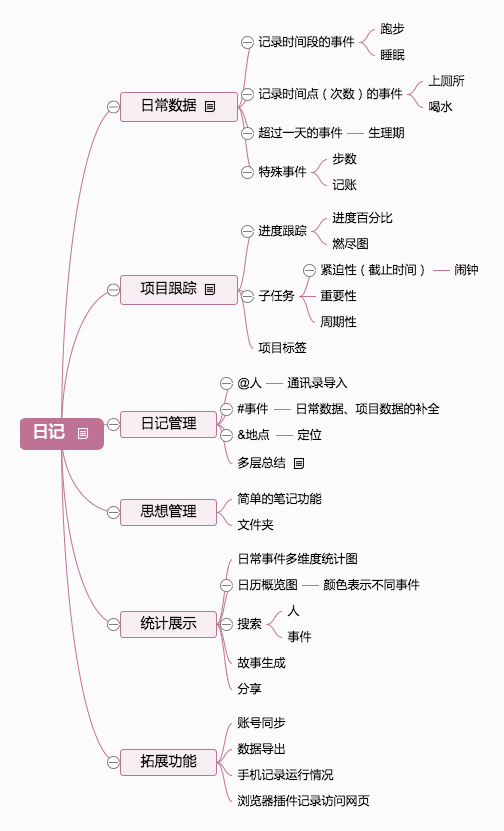
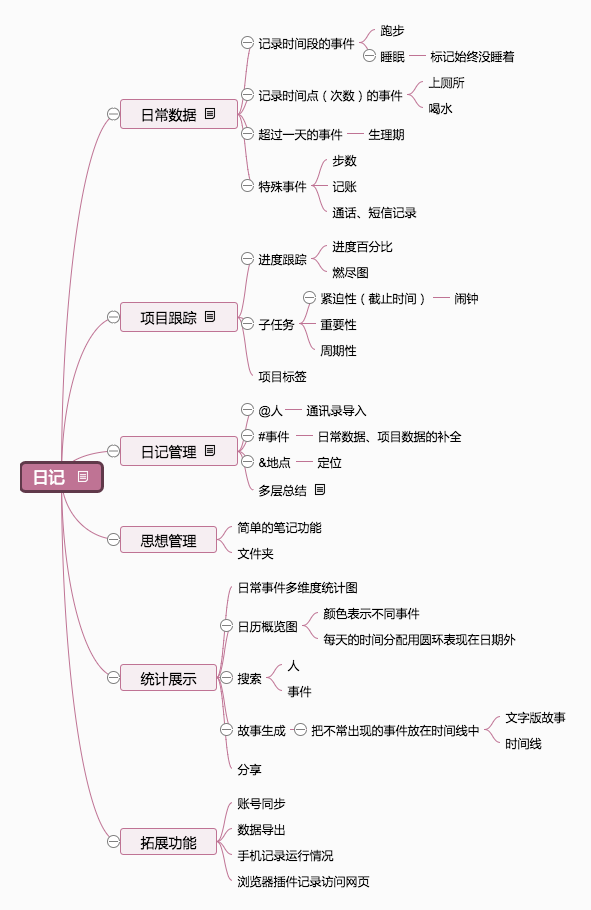
what to create

Changed region(s): [[0.0298, 0.0301, 0.9524, 0.9928], [0.8333, 0.0903, 0.9226, 0.1504], [0.8929, 0.3008, 0.9524, 0.3309]]

diff --git a/README.md b/README.md
@@ -1,72 +1,63 @@
 # 不日记
 
-高效、全面记录分析你的日常行为数据
-
-关键词：量化生活（Quantified Self）
+量化记录、分析我的生活
 
 
 
-## 需求分析
-
-### 现存问题
-
-1. 日常数据统计
-    - 各种记录日常行为数据的软件功能单一，没有能记录所有信息的平台。导致：
-        - 用户需要安装各种统计软件
-        - 无法提供数据间相关性统计
-    - 记录的流程太麻烦。导致：
-        - 用户懒得记录
-        - 容易忘记记录
-    - 数据分析过于单一，没有提供足够的展示信息。导致：
-        - 记了也是白记
-2. 日记
-    - 纸质记录的日记
-        - （致命）查找事件或人过于艰难
-        - 日记本不带在身边就没法记
-        - 不安全！（做成应用至少可以靠手机锁屏密码）
-    - 现有应用
-        - （致命）手机打字麻烦
-        - 正确匹配搜索困难（不记得当时用了什么词就歇菜，甚至人名用了昵称……）
-        - 无目的性地回顾浏览麻烦（有时候你并不想具体地搜具体的人或事，只是想看看过去的一年我都做了什么。这一点大家可能会忽略，但表现也很清楚，就是写的日记很少会去看。）
-
-### 解决方案
-
-1. （杀手锏）在一个应用中集成所有日常数据的统计
-2. 拍平记录入口，简化记录流程
-3. 化整为零降低记录成本
-4. 游戏化（gamification）元素提高记录动力
-5. 基于时间位置等信息智能提醒记录
-6. （重要）深度分析数据关联
-7. （重要）可视化直观展示统计信息
-8. 把事件作为日记时间线
-9. （重要）日记中可以 @人，#事件，&地点（日记还是只有自己可见的，人可以是通讯录等其他途径获得的）
-10. （杀手锏）阶段性总结日记（每周根据 7 天日记写一句话周记，每个月根据 4 句周记写一句话月记……还没意识到这是多么酷炫的想法？！这是 LOD（Level of Detail，根据观察距离选择合适颗粒度的信息展现）好么！！！）
-
-根据行为心理学的观点，习惯养成的三要素是：降低行为成本（把大任务拆分成小任务）；增加锚点（养成做一件肯定不会忘的事就会想到去做要养成的习惯这件事的条件反射）；提供积极反馈（即使只是在心里说一句“我好棒！”）。
-
-所以，相应地，我希望把“记录一天的生活”这样庞大的工作量化整为零拆分在每一件事件发生的时候，而记录最常用的操作只是在首屏（甚至以后考虑在安卓平台做成桌面组件）点一下这样成本很低的操作；至于锚点，我现在用各种统计软件已经形成了条件性的锚点，即使记性不好如我，也很少忘记，如果忘记，我还希望能够通过时间位置信息等进行智能提醒；对于我这样对数据有执念的人，统计数据本身对我就是最好的奖励，但是额外地，可以把记录数据这件事本身作为一种数据进行统计，引入一些指标做游戏化设计，更好地激励自己记下来。
-
-对于写日记，我希望把已有的事件记录融入时间线，这样就不需要用户过多的输入，有了 @人，#事件，&地点 这样的自动化补全手段，可能需要用户手动输入的主要就剩事件带来的感想了。日记这一块想得还不够细致，以后再补充。
-
-### 目标用户
-
-像我一样对记录、掌握自身数据有执念的人。
-
-虽然我力图降低记录的成本，但是再怎么降，坚持记录这件事是必不可免的，所以如果不是对自己的数据有非常强烈的了解意图的人，可能是非常难坚持的。所以本应用针对的目标用户门槛比较高。
-
-事实上，我做这个应用主要是为了解决我自己记录数据的需求。我当然明白，上面列的这些意味着多少工作量……但是，我已经到了不能容忍我的数据到处散布，记了又不给我深度分析的各种统计软件了。
-
-（欢迎感兴趣的同学到 #1 讨论产品需求，但是请先一定确定你理解了这个目标用户范围。）
-
-
+## [需求分析](requirement_analysis.md)
 
 ## [竞品分析](competitive_analysis.md)
 
 
 
-## 功能清单
+## 功能
 
-（这是我粗略想的长远计划，还待细化修改）
+### 新建
+
+#### 日常
+
+日常活动是几乎每天都会做的事，如喝水、阅读、上网、编程等。分为“短时活动”和“长时活动”，对前者我们不关心其持续时间，可以认为是瞬时活动（如喝水）；对于后者，我们会记录开始和结束时间（如阅读、上网、编程）。
+
+需要填写的共同参数包括：
+
+- 名称
+- 标签
+
+##### 短时活动
+
+- 目标每日次数
+
+##### 长时活动
+
+- 目标时间长度
+
+#### 项目
+
+项目是一系列相关待办事项的组合。
+
+需要填写的共同参数包括：
+
+- 名称
+- 进度
+- 标签
+
+#### 待办
+
+待办事项可以属于一个项目，或者没有相关联的项目。
+
+需要填写的共同参数包括：
+
+- 名称
+- 截止日期
+- 重复
+- 提醒
+- 进度
+- 估计耗时
+
+
+
+
+## 功能清单
 
 ![功能清单](https://github.com/Ovilia/buriji/raw/master/design/requirements/功能清单.png)
 

diff --git a/requirement_analysis.md b/requirement_analysis.md
@@ -1,0 +1,51 @@
+## 需求分析
+
+### 现存问题
+
+1. 日常数据统计
+    - 各种记录日常行为数据的软件功能单一，没有能记录所有信息的平台。导致：
+        - 用户需要安装各种统计软件
+        - 无法提供数据间相关性统计
+    - 记录的流程太麻烦。导致：
+        - 用户懒得记录
+        - 容易忘记记录
+    - 数据分析过于单一，没有提供足够的展示信息。导致：
+        - 记了也是白记
+2. 日记
+    - 纸质记录的日记
+        - （致命）查找事件或人过于艰难
+        - 日记本不带在身边就没法记
+        - 不安全！（做成应用至少可以靠手机锁屏密码）
+    - 现有应用
+        - （致命）手机打字麻烦
+        - 正确匹配搜索困难（不记得当时用了什么词就歇菜，甚至人名用了昵称……）
+        - 无目的性地回顾浏览麻烦（有时候你并不想具体地搜具体的人或事，只是想看看过去的一年我都做了什么。这一点大家可能会忽略，但表现也很清楚，就是写的日记很少会去看。）
+
+### 解决方案
+
+1. （杀手锏）在一个应用中集成所有日常数据的统计
+2. 拍平记录入口，简化记录流程
+3. 化整为零降低记录成本
+4. 游戏化（gamification）元素提高记录动力
+5. 基于时间位置等信息智能提醒记录
+6. （重要）深度分析数据关联
+7. （重要）可视化直观展示统计信息
+8. 把事件作为日记时间线
+9. （重要）日记中可以 @人，#事件，&地点（日记还是只有自己可见的，人可以是通讯录等其他途径获得的）
+10. （杀手锏）阶段性总结日记（每周根据 7 天日记写一句话周记，每个月根据 4 句周记写一句话月记……还没意识到这是多么酷炫的想法？！这是 LOD（Level of Detail，根据观察距离选择合适颗粒度的信息展现）好么！！！）
+
+根据行为心理学的观点，习惯养成的三要素是：降低行为成本（把大任务拆分成小任务）；增加锚点（养成做一件肯定不会忘的事就会想到去做要养成的习惯这件事的条件反射）；提供积极反馈（即使只是在心里说一句“我好棒！”）。
+
+所以，相应地，我希望把“记录一天的生活”这样庞大的工作量化整为零拆分在每一件事件发生的时候，而记录最常用的操作只是在首屏（甚至以后考虑在安卓平台做成桌面组件）点一下这样成本很低的操作；至于锚点，我现在用各种统计软件已经形成了条件性的锚点，即使记性不好如我，也很少忘记，如果忘记，我还希望能够通过时间位置信息等进行智能提醒；对于我这样对数据有执念的人，统计数据本身对我就是最好的奖励，但是额外地，可以把记录数据这件事本身作为一种数据进行统计，引入一些指标做游戏化设计，更好地激励自己记下来。
+
+对于写日记，我希望把已有的事件记录融入时间线，这样就不需要用户过多的输入，有了 @人，#事件，&地点 这样的自动化补全手段，可能需要用户手动输入的主要就剩事件带来的感想了。日记这一块想得还不够细致，以后再补充。
+
+### 目标用户
+
+像我一样对记录、掌握自身数据有执念的人。
+
+虽然我力图降低记录的成本，但是再怎么降，坚持记录这件事是必不可免的，所以如果不是对自己的数据有非常强烈的了解意图的人，可能是非常难坚持的。所以本应用针对的目标用户门槛比较高。
+
+事实上，我做这个应用主要是为了解决我自己记录数据的需求。我当然明白，上面列的这些意味着多少工作量……但是，我已经到了不能容忍我的数据到处散布，记了又不给我深度分析的各种统计软件了。
+
+（欢迎感兴趣的同学到 [#1](https://github.com/Ovilia/buriji/issues/1) 讨论产品需求，但是请先一定确定你理解了这个目标用户范围。）
